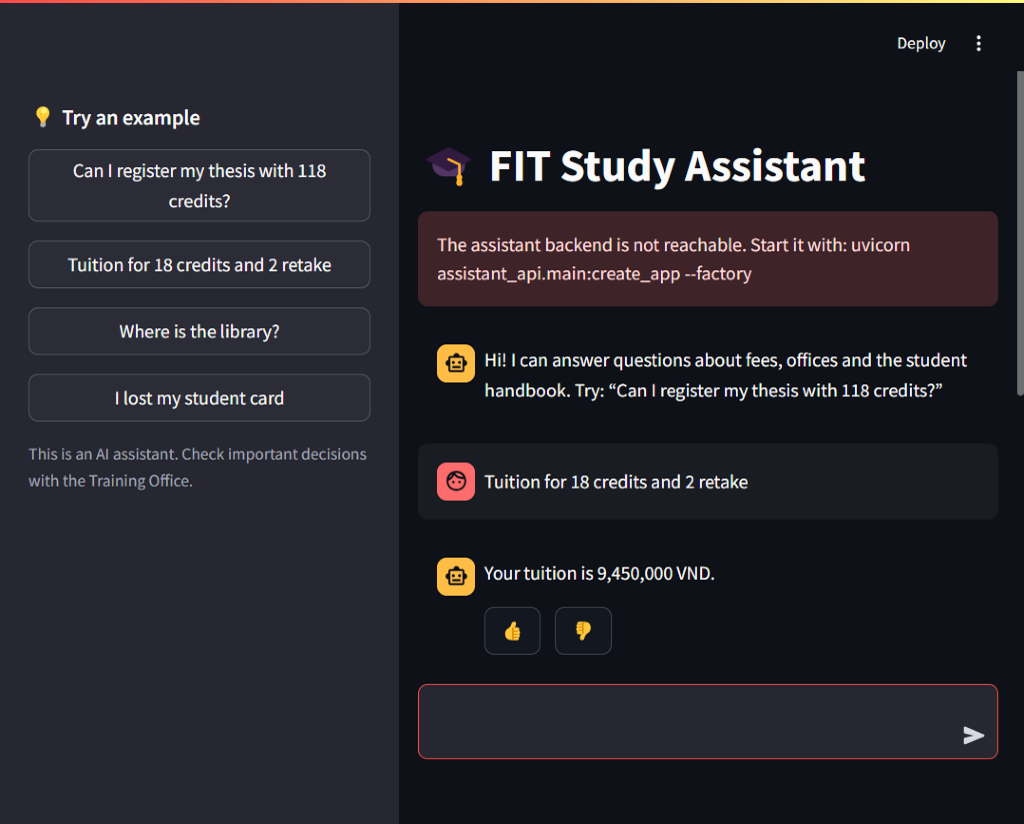
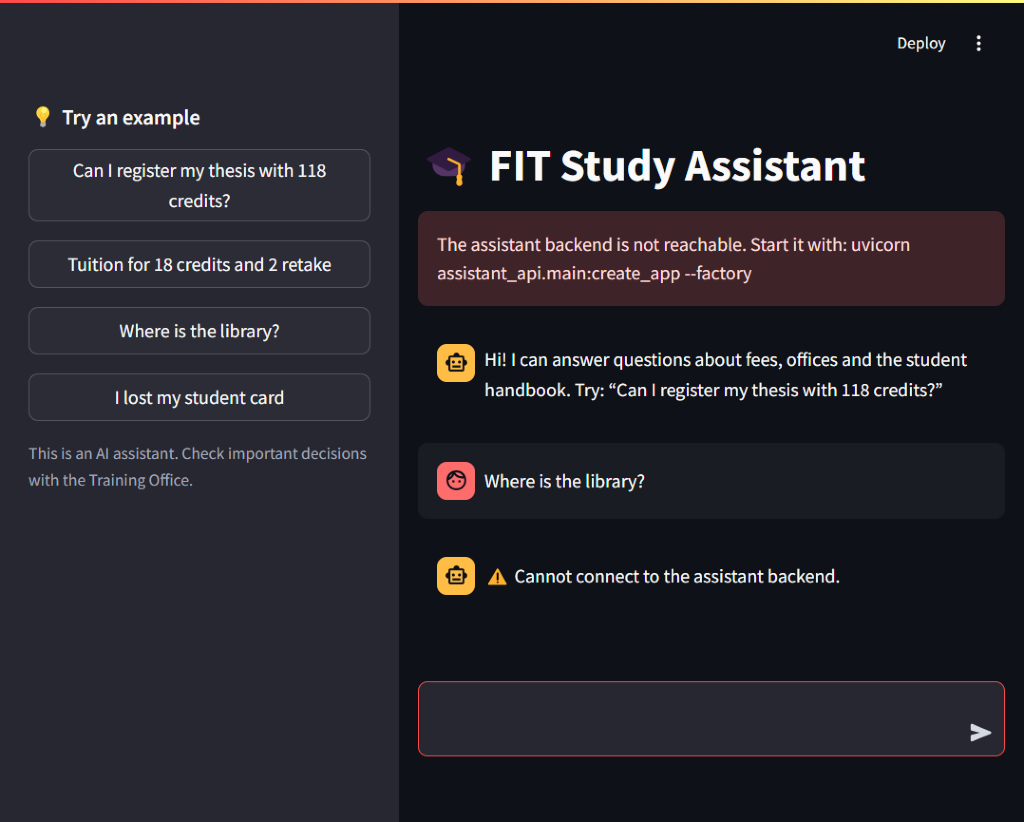
docs(lab7): fix F01 test names and Scenario 6 screenshot (#83)

diff --git a/docs/lab7/d4_e2e_report.md b/docs/lab7/d4_e2e_report.md
@@ -44,10 +44,11 @@ Audited `AssistantClient` and `ChatResult` in [`ui/api_client.py`](../../ui/api_
 | `POST /v1/chat` (normal / tool / RAG) | `{"message": question, "session_id": session_id}` | Parses `answer`, `sources`, `request_id`, `escalate`, `degraded` | Verified (`200 OK`, deterministic fee + RAG `H26#5.3` + `S26#1`) |
 | `POST /v1/chat` (`escalate=True`) | Out-of-scope question (`"what is the capital of France"`) | Sets `escalate=True`; `status_note()` renders blue `st.info` note | Verified (`Training Office, room I.101`) |
 | `POST /v1/feedback` (`+1` / `-1`) | `{"request_id": rid, "rating": 1 or -1}` | Returns `201 Created`; hides buttons after vote | Verified (`201 Created` for both 👍 and 👎 in Uvicorn logs) |
-| HTTP `422` | Validation error from API | Returns `ChatResult(ok=False, error="Invalid request: ...")` | Verified via `tests/test_ui.py` (`test_ask_validation_and_server_errors`) |
-| HTTP `429` | Rate limit exceeded (`RATE_LIMIT_PER_MIN=1`) | Returns `"Too many requests — please wait a moment before retrying."` | Verified live in browser + Uvicorn log (`429 Too Many Requests`) |
-| HTTP `500` / `TimeoutException` | Non-200 server error or timeout | Returns `"Server error 500: ..."` / `"The request timed out..."` | Verified via `tests/test_ui.py` (`test_ask_validation_and_server_errors`, timeout test) |
-| Backend unreachable (`ConnectError`) | Backend stopped on port `8000` | `Ask` returns `"Cannot connect to the assistant backend."`; banner shows `"The assistant backend is not reachable..."` | Verified live in browser (`[data-testid="stException"]` = `0`) |
+| HTTP `422` | Validation error from API | Returns `ChatResult(ok=False, error="Invalid request: ...")` | Verified via `tests/test_ui.py` (`test_ask_422`) |
+| HTTP `429` | Rate limit exceeded (`RATE_LIMIT_PER_MIN=1`) | Returns `"Too many requests — please wait a moment before retrying."` | Verified live in browser + Uvicorn log (`429 Too Many Requests`) and `tests/test_ui.py` (`test_ask_429`) |
+| `TimeoutException` | Request exceeds client timeout | Returns `"The request timed out — the server may be busy."` | Verified via `tests/test_ui.py` (`test_ask_timeout`) |
+| HTTP `500` (non-200) | Unexpected server error response | Returns `f"Server error {r.status_code}: {r.text[:200]}"` | Verified by inspecting `ui/api_client.py` (lines 65–66); dedicated HTTP `500` unit test is pending PR #82 (`tests/test_ui.py`) |
+| Backend unreachable (`ConnectError`) | Backend stopped on port `8000` | `Ask` returns `"Cannot connect to the assistant backend."`; banner shows `"The assistant backend is not reachable..."` | Verified live in browser (`[data-testid="stException"]` = `0`) and `tests/test_ui.py` (`test_ask_backend_down`) |
 
 > **Note:** On live `ConnectError`, the red top banner (`ui/app.py`) renders `"The assistant backend is not reachable. Start it with: uvicorn assistant_api.main:create_app --factory"` while `AssistantClient.ask()` (`ui/api_client.py`) returns `"Cannot connect to the assistant backend."` in chat; both fail politely without crashing.
 
@@ -63,9 +64,9 @@ All 7 scenarios were executed end-to-end in a live Chromium browser against `htt
 | **2** | Handbook policy query + source citation | Submitted `"Can I register my thesis with 118 credits?"`; opened `📚 Cited Sources (1)` expander | Returned grounded answer (`"According to 5.3 Thesis registration: Students may register a thesis when they have at least 120 accumulated credits and a cumulative GPA of at least 2.0."`) + source badge `H26#5.3 — 5.3 Thesis registration` | **PASS** | [dat-lab07-d4-2-thesis-sources.png](../evidence/dat-lab07-d4-2-thesis-sources.png) |
 | **3** | Out-of-scope abstain & escalation | Submitted `"what is the capital of France"` | Displayed abstain answer + blue `st.info` note: `"I could not find this in the official documents. A staff member can help: Training Office, room I.101."` | **PASS** | [dat-lab07-d4-3-escalate.png](../evidence/dat-lab07-d4-3-escalate.png) |
 | **4** | Empty input handling | Focused empty chat box (`"\n"` / empty) and pressed `Enter` | Message count stayed `7` (unchanged); empty input blocked cleanly and `st.warning` showed `"Please type a question."` without calling `/v1/chat` | **PASS** | [dat-lab07-d4-4-empty-input.png](../evidence/dat-lab07-d4-4-empty-input.png) |
-| **5** | Feedback buttons (`👍` and `👎`) | Clicked `👍` on thesis answer, then `👎` on out-of-scope answer | Toast `"Thanks for your feedback!"` shown; both `POST /v1/feedback` logged `201 Created`; `👍`/`👎` buttons hidden on both rated messages while remaining on unrated message | **PASS** | [dat-lab07-d4-5-feedback.png](../evidence/dat-lab07-d4-5-feedback.png) |
-| **6** | Backend stopped (`Ctrl+C`) | Stopped Uvicorn on port `8000`; submitted `"Where is the library?"` | Zero crash/traceback (`stException = 0`); displayed top red banner `"The assistant backend is not reachable..."` and friendly chat message `"⚠ Cannot connect to the assistant backend."` | **PASS** | [dat-lab07-d4-6-backend-down.png](../evidence/dat-lab07-d4-6-backend-down.png) |
-| **7** | API rate limit / server error (`429` & `500`) | Restarted Uvicorn with `RATE_LIMIT_PER_MIN=1`; sent `"Where is the library?"` (`200 OK`), immediately followed by `"I lost my student card"` (`429 Too Many Requests`); `500` covered in `tests/test_ui.py` | Zero crash/traceback (`stException = 0`); UI displayed `"⚠ Too many requests — please wait a moment before retrying."` | **PASS** | [dat-lab07-d4-7-rate-limit-429.png](../evidence/dat-lab07-d4-7-rate-limit-429.png) |
+| **5** | Feedback buttons (`👍` and `👎`) | Clicked `👍` on thesis answer, then `👎` on out-of-scope answer | Toast `"Thanks for your feedback!"` shown after clicking `👍`; both `POST /v1/feedback` logged `201 Created`; screenshot confirms `👍`/`👎` buttons removed from both rated messages | **PASS** | [dat-lab07-d4-5-feedback.png](../evidence/dat-lab07-d4-5-feedback.png) |
+| **6** | Backend stopped (`Ctrl+C`) | Stopped Uvicorn on port `8000`; submitted `"Where is the library?"` in a fresh tab | Zero crash/traceback (`stException = 0`); screenshot shows both top red banner (`"The assistant backend is not reachable..."`) and chat error (`"⚠ Cannot connect to the assistant backend."`) together | **PASS** | [dat-lab07-d4-6-backend-down.png](../evidence/dat-lab07-d4-6-backend-down.png) |
+| **7** | API rate limit / server error (`429` & `500`) | Restarted Uvicorn with `RATE_LIMIT_PER_MIN=1`; sent `"Where is the library?"` (`200 OK`), immediately followed by `"I lost my student card"` (`429 Too Many Requests`); checked `500` handling in `ui/api_client.py` (lines 65–66; unit test pending PR #82) | Zero crash/traceback (`stException = 0`); UI displayed `"⚠ Too many requests — please wait a moment before retrying."` | **PASS** | [dat-lab07-d4-7-rate-limit-429.png](../evidence/dat-lab07-d4-7-rate-limit-429.png) |
 
 ---
 
